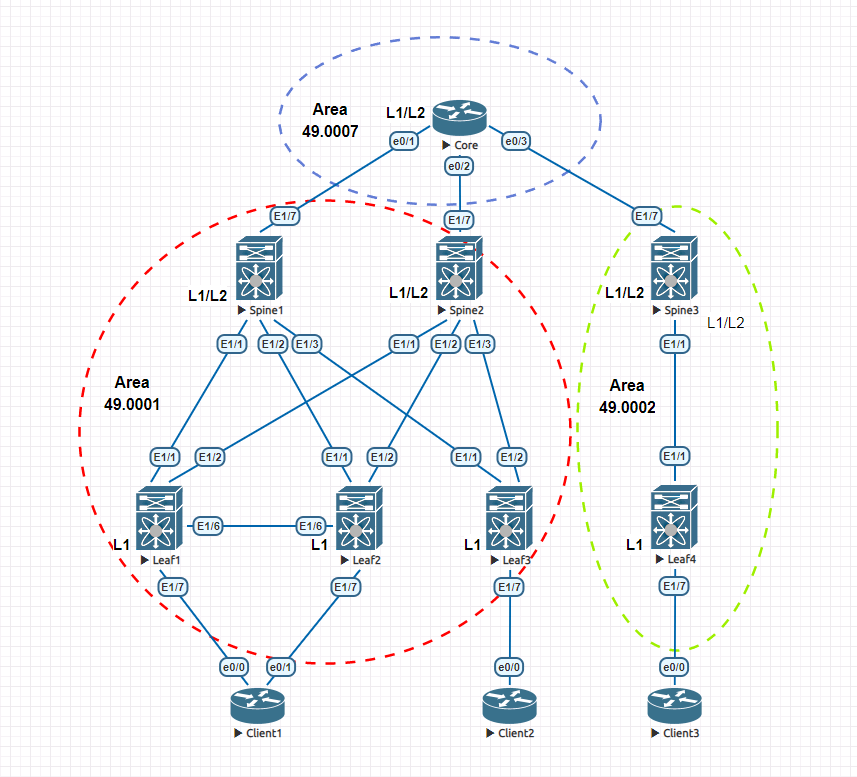
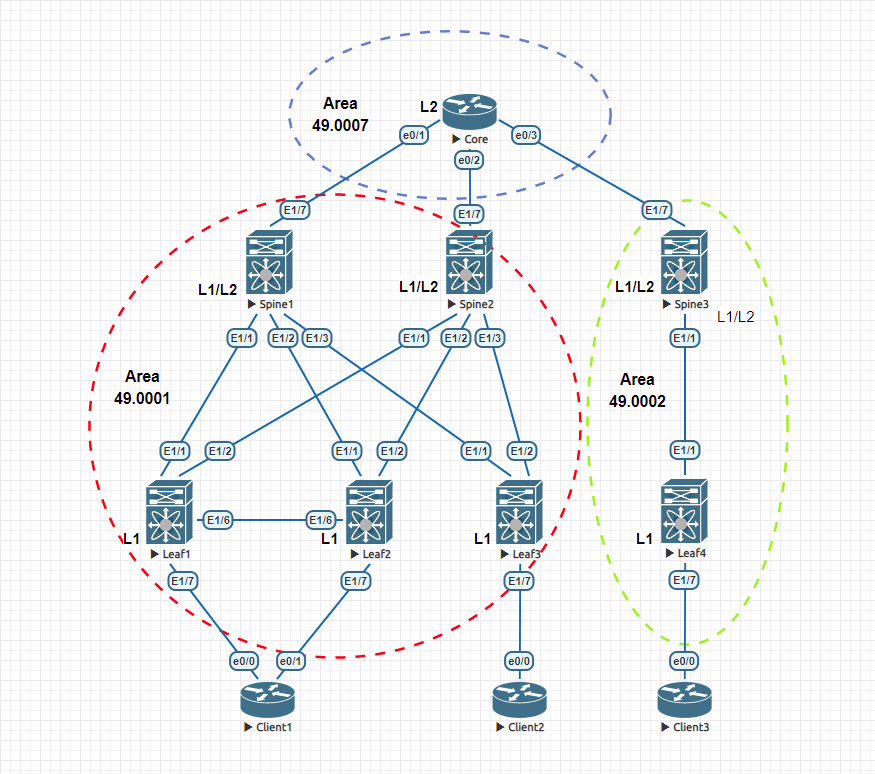
Create Config ISIS

diff --git a/UnderlayISIS.md b/UnderlayISIS.md
@@ -60,11 +60,11 @@ router isis 1
 
 </code></pre>
 </details>
-
+-
 <details>
   <summary>`Ping Traceroute test`</summary>
 <pre><code>
-
+-
 </code></pre>
 </details>
 
@@ -129,7 +129,7 @@ router isis 1
 </details>
 
 <details>
-  <summary>`Ping test`</summary>
+  <summary>`Show ISIS status`</summary>
 <pre><code>
 
 </code></pre>
@@ -148,7 +148,43 @@ router isis 1
 <details>
   <summary>`Show Config`</summary>
 <pre><code>
-
+feature isis
+interface Ethernet1/1
+  description Leaf1
+  ip address 10.11.0.6/31
+  isis network point-to-point
+  isis circuit-type level-1
+  ip router isis 1
+!
+interface Ethernet1/2
+  description Leaf2
+  ip address 10.11.0.8/31
+  isis network point-to-point
+  isis circuit-type level-1
+  ip router isis 1
+!
+interface Ethernet1/3
+  description Leaf3
+  ip address 10.11.0.10/31
+  isis network point-to-point
+  isis circuit-type level-1
+  ip router isis 1
+!
+interface Ethernet1/7
+  description Core
+  ip address 10.10.0.3/31
+  isis network point-to-point
+  isis circuit-type level-2
+  ip router isis 1
+!
+interface loopback0
+  ip address 10.1.0.2/32
+  ip router isis 1
+!
+router isis 1
+  net 49.0001.0100.0100.0002.00
+  address-family ipv4 unicast
+    distribute level-1 into level-2 all
 </code></pre>
 </details>
   
@@ -166,6 +202,7 @@ router isis 1
 </code></pre>
 </details>
 
+
 ---
 
 ###Spine3
@@ -177,7 +214,29 @@ router isis 1
 <details>
   <summary>`Show Config`</summary>
 <pre><code>
-
+feature isis
+interface Ethernet1/1
+  description Leaf4
+  ip address 10.11.0.12/31
+  isis network point-to-point
+  isis circuit-type level-1
+  ip router isis 1
+!
+interface Ethernet1/7
+  description Core
+  ip address 10.10.0.5/31
+  isis network point-to-point
+  isis circuit-type level-2
+  ip router isis 1
+!
+interface loopback0
+  ip address 10.1.0.3/32
+  ip router isis 1
+!
+router isis 1
+  net 49.0002.0100.0100.0003.00
+  address-family ipv4 unicast
+    distribute level-1 into level-2 all
 </code></pre>
 </details>
 
@@ -206,7 +265,27 @@ router isis 1
 <details>
   <summary>`Show Config`</summary>
 <pre><code>
-
+feature isis
+interface Ethernet1/1
+  description Spine1
+  ip address 10.11.0.1/31
+  isis network point-to-point
+  ip router isis 1
+!
+interface Ethernet1/2
+  description Spine2
+  ip address 10.11.0.7/31
+  isis network point-to-point
+  ip router isis 1
+!
+interface loopback0
+  ip address 10.2.0.1/32
+  ip router isis 1
+!
+router isis 1
+  net 49.0001.0100.0200.0001.00
+  is-type level-1
+  address-family ipv4 unicast
 </code></pre>
 </details>
 
@@ -235,7 +314,27 @@ router isis 1
 <details>
   <summary>`Show Config`</summary>
 <pre><code>
-
+feature isis
+interface Ethernet1/1
+  description Spine1
+  ip address 10.11.0.3/31
+  isis network point-to-point
+  ip router isis 1
+!
+interface Ethernet1/2
+  description Spine2
+  ip address 10.11.0.9/31
+  isis network point-to-point
+  ip router isis 1
+!
+interface loopback0
+  ip address 10.2.0.2/32
+  ip router isis 1
+!
+router isis 1
+  net 49.0001.0100.0200.0002.00
+  is-type level-1
+  address-family ipv4 unicast
 </code></pre>
 </details>
 
@@ -264,7 +363,27 @@ router isis 1
 <details>
   <summary>`Show Config`</summary>
 <pre><code>
-
+feature isis
+interface Ethernet1/1
+  description Spine1
+  ip address 10.11.0.5/31
+  isis network point-to-point
+  ip router isis 1
+!
+interface Ethernet1/2
+  description Spine2
+  ip address 10.11.0.11/31
+  isis network point-to-point
+  ip router isis 1
+!
+interface loopback0
+  ip address 10.2.0.3/32
+  ip router isis 1
+!
+router isis 1
+  net 49.0001.0100.0200.0003.00
+  is-type level-1
+  address-family ipv4 unicast
   </code></pre>
 </details>
 
@@ -292,7 +411,22 @@ router isis 1
 <details>
   <summary>`Show Config`</summary>
 <pre><code>
-
+feature isis
+interface Ethernet1/1
+  description Spine3
+  no switchport
+  ip address 10.11.0.13/31
+  isis network point-to-point
+  ip router isis 1
+!
+interface loopback0
+  ip address 10.2.0.4/32
+  ip router isis 1
+!
+router isis 1
+  net 49.0002.0100.0200.0004.00
+  is-type level-1
+  address-family ipv4 unicast
 </code></pre>
 </details>
 
